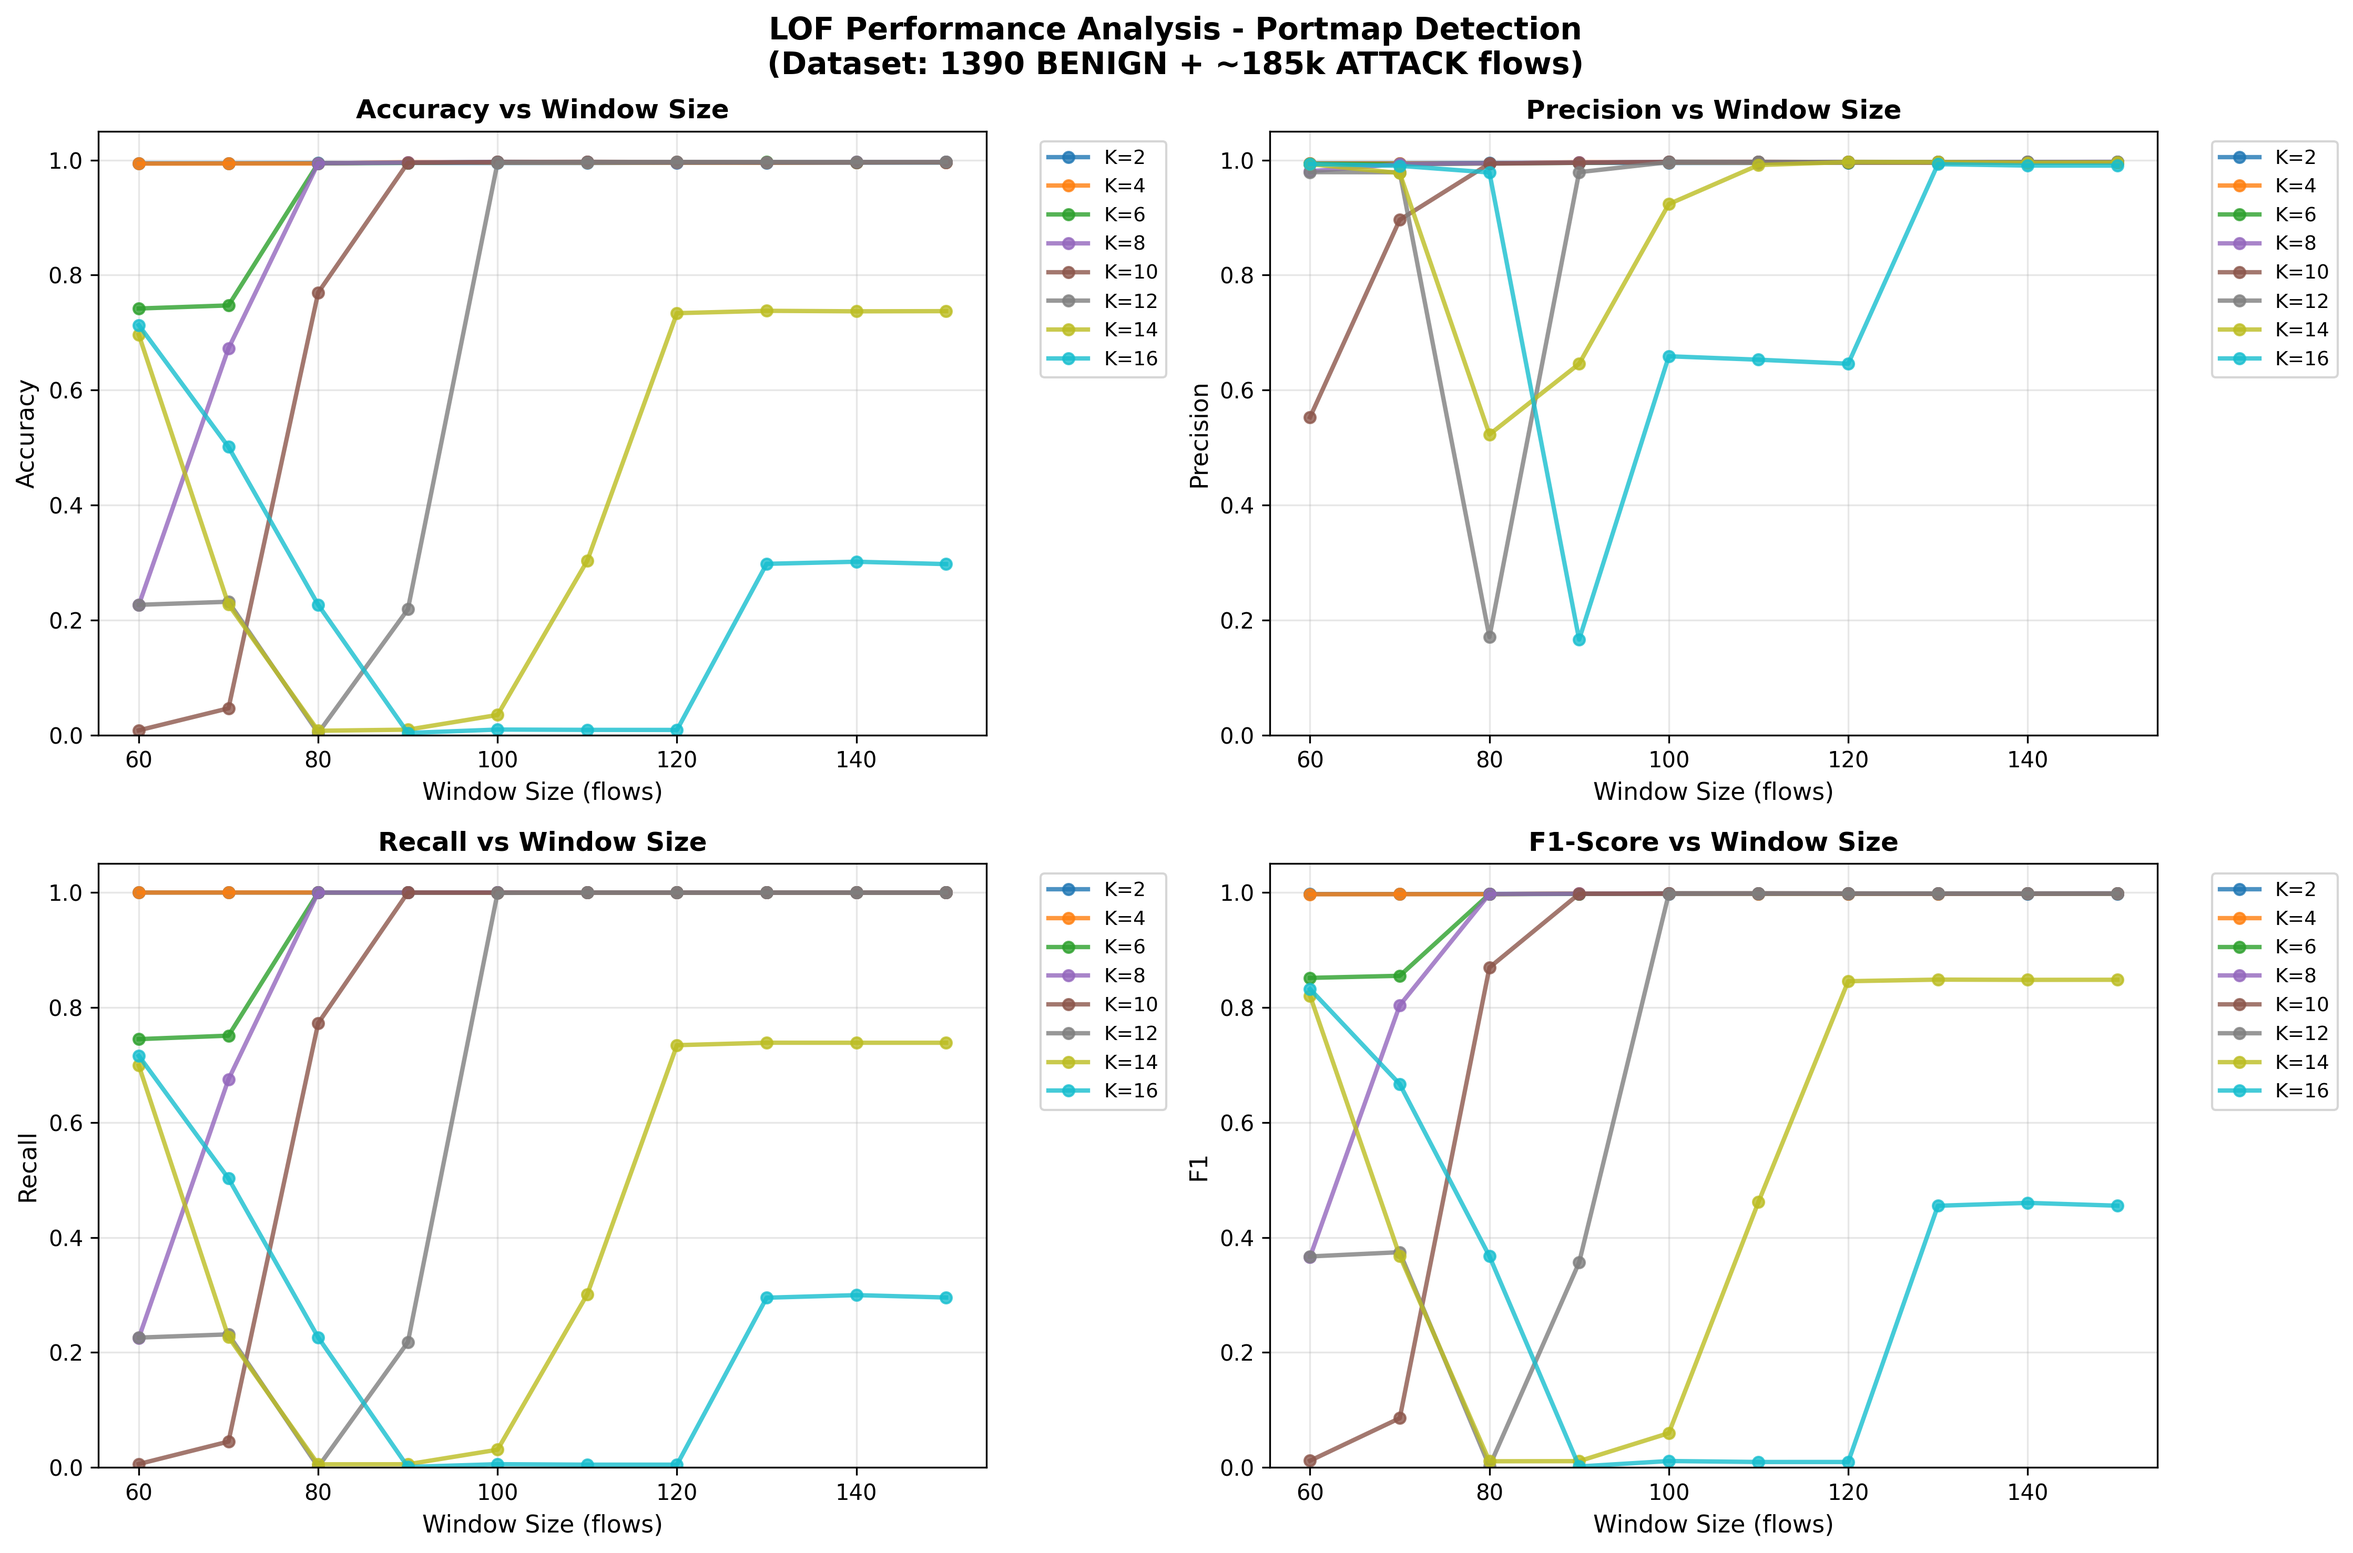
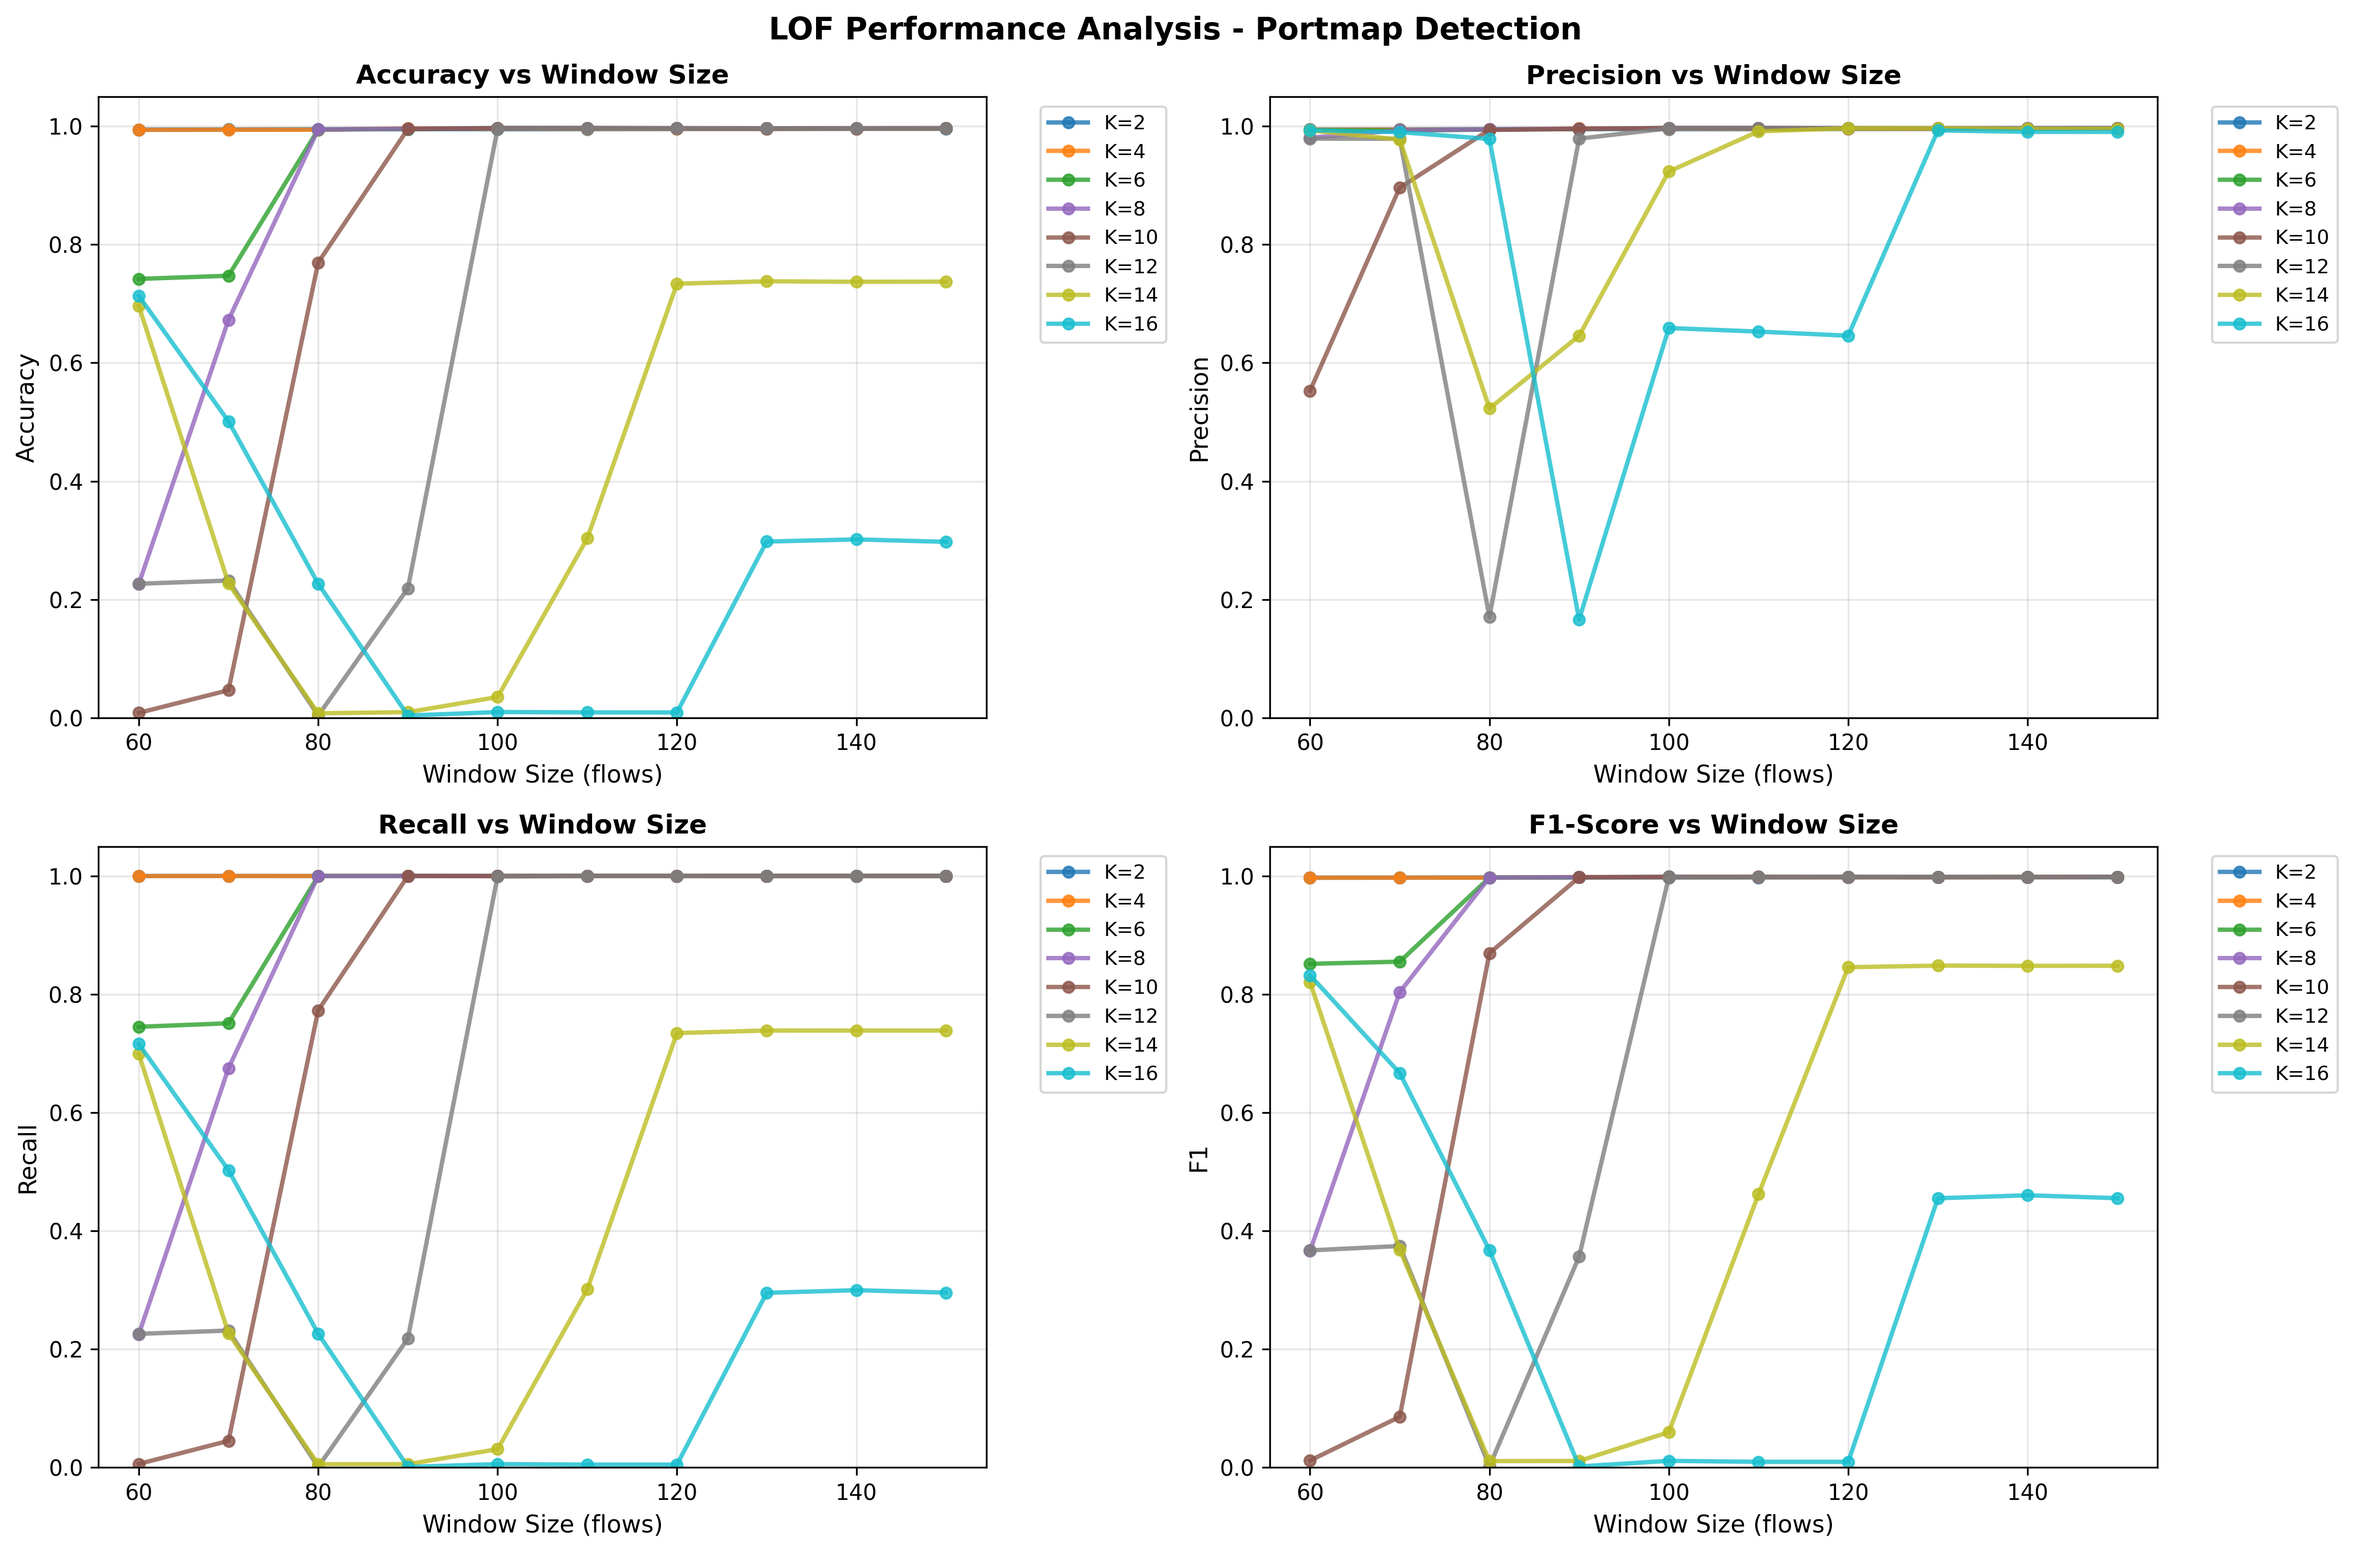
lof flow

diff --git a/lof_flow.py b/lof_flow.py
@@ -252,7 +252,7 @@ def plot_results_corrected(results_df, attack_label):
     """Vẽ biểu đồ kết quả với format chuẩn"""
     plt.style.use('default')
     fig, axes = plt.subplots(2, 2, figsize=(15, 10))
-    fig.suptitle(f'LOF Performance Analysis - {attack_label} Detection\n(Dataset: 1390 BENIGN + ~185k ATTACK flows)', 
+    fig.suptitle(f'LOF Performance Analysis - {attack_label} Detection', 
                  fontsize=14, fontweight='bold')
     
     k_values = sorted(results_df['k'].unique())
